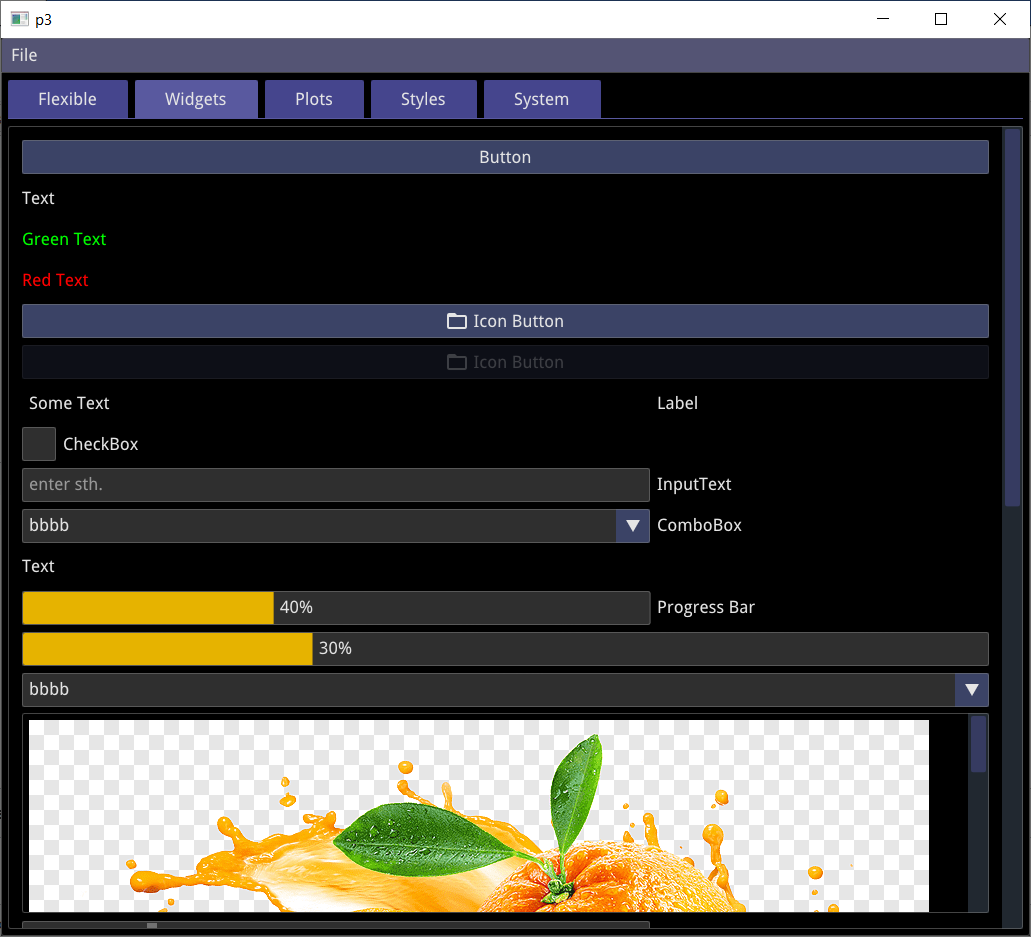
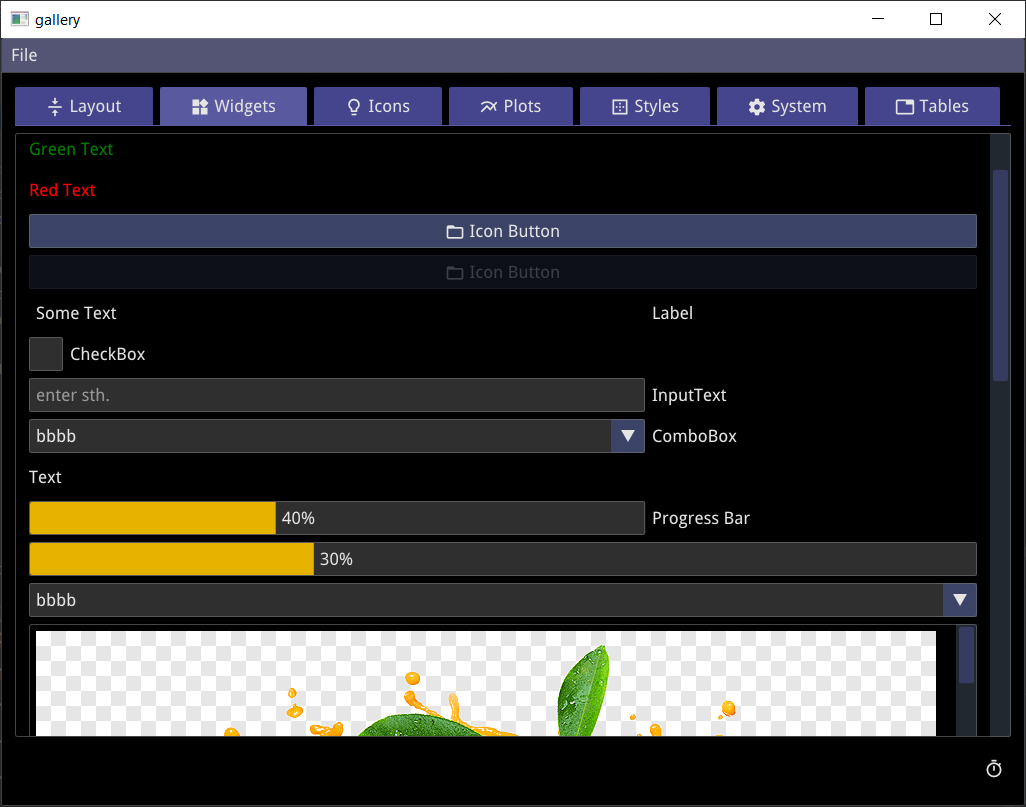
table column / row

diff --git a/cpp/p3/source/p3/Table.cpp b/cpp/p3/source/p3/Table.cpp
@@ -32,56 +32,73 @@ namespace p3
     Table::Table()
         : Node("Table")
     {
+        for (auto& column : _columns)
+            column->release();
     }
 
-    void Table::render_impl(Context&, float width, float height)
+    void Table::set_columns(std::vector<std::shared_ptr<Column>> columns)
     {
-        
+        for (auto& column : _columns)
+            column->release();
+        _columns = std::move(columns);
+        for (auto& column : _columns)
+            column->synchronize_with(*this);
+    }
+
+    std::vector<std::shared_ptr<Table::Column>> Table::columns() const
+    {
+        return _columns;
+    }
+
+    void Table::render_impl(Context& context, float width, float height)
+    {
+
         ImVec2 size(width, height);
         //
         // NOTE: todo: scrollbars.. borders.. 
-        ImGuiTableFlags flags=ImGuiTableFlags_RowBg 
-            | ImGuiTableFlags_BordersOuterH 
-            | ImGuiTableFlags_BordersOuterV 
+        ImGuiTableFlags flags = ImGuiTableFlags_RowBg
+            | ImGuiTableFlags_BordersOuterH
+            | ImGuiTableFlags_BordersOuterV
             | ImGuiTableFlags_BordersInnerV
-            | ImGuiTableFlags_ScrollX 
+            | ImGuiTableFlags_ScrollX
             | ImGuiTableFlags_ScrollY;
+
+        
         ImGui::BeginTable(imgui_label().c_str(), 3, flags, size);
-        ImGui::TableSetupColumn("One", ImGuiTableColumnFlags_WidthFixed, 200.f);
-        ImGui::TableSetupColumn("Two", ImGuiTableColumnFlags_WidthFixed, 200.f);
-        ImGui::TableSetupColumn("Three", ImGuiTableColumnFlags_WidthFixed, 200.f);
-        ImGui::TableHeadersRow();
-        ImGui::TableNextColumn();
-        ImGui::Text("Test1");
-        ImGui::TableNextColumn();
-        ImGui::Text("Test2");
-        ImGui::TableNextColumn();
-        ImGui::Text("Test3");
+        if (_columns.size())
+        {
+            std::size_t suffix=0;
+            for (auto& column : _columns)
+            {
+                auto infix = std::to_string(imgui_id());
+                auto label = column->title() + "##" + infix + "_" + std::to_string(suffix++);
+                ImGui::TableSetupColumn(label.c_str(), ImGuiTableColumnFlags_WidthFixed, 200.f);
+            }
+            ImGui::TableHeadersRow();
+        }
 
-        ImGui::TableNextRow();
-        ImGui::TableNextColumn();
-        ImGui::Text("Test1");
-        ImGui::TableNextColumn();
-        ImGui::Text("Test2");
-        ImGui::TableNextColumn();
-        ImGui::Text("Test3");
-
-        ImGui::TableNextRow();
-        ImGui::TableNextColumn();
-        ImGui::Text("Test1");
-        ImGui::TableNextColumn();
-        ImGui::Text("Test2");
-        ImGui::TableNextColumn();
-        ImGui::Text("Test3");
+        for (auto& child : children())
+            child->render(context, width, height);
 
         ImGui::EndTable();
     }
 
     void Table::update_content()
     {
-        
+
         auto const em = ImGui::GetCurrentContext()->FontSize;
-        _automatic_width = _automatic_height =  DefaultItemWidthEm * em;
+        _automatic_width = _automatic_height = DefaultItemWidthEm * em;
+    }
+
+    void Table::Row::render_impl(Context& context, float width, float height)
+    {
+        ImGui::TableNextRow();
+        for (auto& child : children())
+        {
+           ImGui::TableNextColumn();
+           // auto s = ImGui::GetContentRegionAvail() - pad;
+           child->render(context, 0, 0);
+        }
     }
 
 }

diff --git a/cpp/p3_python/source/p3/python/Table.cpp b/cpp/p3_python/source/p3/python/Table.cpp
@@ -28,11 +28,31 @@ namespace p3::python
 
     void Definition<Table>::apply(py::module& module)
     {
-        py::class_<Table, Node, std::shared_ptr<Table>> table(module, "Table");
+        auto table = py::class_<Table, Node, std::shared_ptr<Table>>(module, "Table");
         table.def(py::init<>([](py::kwargs kwargs) {
             auto table = std::make_shared<Table>();
             ArgumentParser<Node>()(kwargs, *table);
+            assign(kwargs, "columns", *table, &Table::set_columns);
             return table;
+        }));
+
+        py::class_<Table::Column, std::shared_ptr<Table::Column>> column(table, "Column");
+        column.def(py::init<>([](std::string title, py::kwargs kwargs) {
+            auto column = std::make_shared<Table::Column>();
+            column->set_title(std::move(title));
+            assign(kwargs, "width", *column, &Table::Column::set_width);
+            assign(kwargs, "weight", *column, &Table::Column::set_weight);
+            return column;
+        }), py::arg("title"));
+        def_property(column, "title", &Table::Column::title, &Table::Column::set_title);
+        def_property(column, "width", &Table::Column::width, &Table::Column::set_width);
+        def_property(column, "weight", &Table::Column::weight, &Table::Column::set_weight);
+
+        auto row = py::class_<Table::Row, Node, std::shared_ptr<Table::Row>>(table, "Row");
+        row.def(py::init<>([](py::kwargs kwargs) {
+            auto row = std::make_shared<Table::Row>();
+            ArgumentParser<Node>()(kwargs, *row);
+            return row;
         }));
     }
 

diff --git a/cpp/p3/source/p3/Table.h b/cpp/p3/source/p3/Table.h
@@ -34,10 +34,44 @@ namespace p3
     {
     public:
         Table();
+
+        // 
+        // column sepcification
+        class Column : public Synchronizable
+        {
+        public:
+            std::string const& title() const { return _title; }
+            void set_title(std::string title){ _title = std::move(title); }
+
+            std::optional<Length> const& width() const { return _width; }
+            void set_width(std::optional<Length> width) { _width = std::move(width); }
+
+            float weight() const { return _weight; }
+            void set_weight(float weight) { _weight = weight; }
+
+        private:
+            std::string _title;
+            std::optional<Length> _width;
+            float _weight = 1.0f;
+        };
+
+        void set_columns(std::vector<std::shared_ptr<Column>>);
+        std::vector<std::shared_ptr<Column>> columns() const;
+
+        //
+        // a row ..
+        class Row : public Node
+        {
+        public:
+            Row() : Node("Row") {}
+            void render_impl(Context&, float width, float height) override;
+        };
+
         void render_impl(Context&, float width, float height) override;
         void update_content() override;
 
     private:
+        std::vector<std::shared_ptr<Column>> _columns;
     };
 
 }

diff --git a/python/gallery/gallery.py b/python/gallery/gallery.py
@@ -11,7 +11,7 @@ from tab_layout import TabLayout
 from tab_styles import TabStyles
 from tab_system import TabSystem
 from tab_icons import TabIcons
-
+from tab_tables import TabTables
 
 class Gallery(UserInterface):
 
@@ -37,7 +37,8 @@ class Gallery(UserInterface):
                         TabItem(f'{MaterialIcons.LightbulbOutline} Icons', content=TabIcons()),
                         TabItem(f'{MaterialIcons.MultilineChart} Plots', content=tab_plots),
                         TabItem(f'{MaterialIcons.BorderOuter} Styles', content=TabStyles(self)),
-                        TabItem(f'{MaterialIcons.Settings} System', content=tab_system)
+                        TabItem(f'{MaterialIcons.Settings} System', content=tab_system),
+                        TabItem(f'{MaterialIcons.Tab} Tables', content=TabTables())
                     ]),
                 Layout(
                     height=(None, 0, 0),

diff --git a/python/gallery/tab_tables.py b/python/gallery/tab_tables.py
@@ -1,0 +1,18 @@
+from p3ui import *
+
+
+class TabTables(Table):
+
+    def __init__(self):
+        super().__init__(
+            columns=[
+                Table.Column('First Column', width=10 | em),
+                Table.Column('Second Column', width=10 | em),
+                Table.Column('Third Column', width=10 | em)
+            ],
+            children=[
+                Table.Row(children=[Text('a111', color='red'), Text('222'), Text('333')]),
+                Table.Row(children=[Text('b111'), Text('222', color='green'), Text('333')]),
+                Table.Row(children=[Text('c111'), Text('222'), Text('333')])
+            ]
+        )

diff --git a/cpp/p3/source/p3/Text.cpp b/cpp/p3/source/p3/Text.cpp
@@ -75,7 +75,7 @@ namespace p3
             // ImGui::SetCursorPosX(ImGui::GetCursorPosX() + ImGui::GetCurrentConvalue()->Style.FramePadding.x);
             ImGui::SetCursorPosY(ImGui::GetCursorPosY() + ImGui::GetCurrentContext()->Style.FramePadding.y);
             ImGui::Text(_value.c_str());
-            ImGui::SetCursorPosY(ImGui::GetCursorPosY() + ImGui::GetCurrentContext()->Style.FramePadding.y);
+            // ImGui::SetCursorPosY(ImGui::GetCursorPosY() + ImGui::GetCurrentContext()->Style.FramePadding.y);
             // ImGui::SetCursorPosX(ImGui::GetCursorPosX() + ImGui::GetCurrentContext()->Style.FramePadding.x);
         }
     }

diff --git a/python/gallery/main.py b/python/gallery/main.py
@@ -1,16 +1,13 @@
 import asyncio
 from p3ui import *
-import threading
 from gallery import Gallery
 
 
 async def main():
     window = Window(title='gallery')
-    # window.vsync = False
     window.position = Window.Position(50, 50)
     window.size = Window.Size(1024, 768)
     await window.serve(Gallery(window))
 
 
 asyncio.run(main())
-exit(0)

diff --git a/README.md b/README.md
@@ -6,9 +6,5 @@ This project aims at fast prototyping and development of performant applications
 
 Sourcecode for the example is [provided here](python/gallery)
 
-![flexible](doc/flexible.png)
 ![widgets](doc/widgets.png)
-![plots](doc/plots.png)
-![styles](doc/styling.png)
-![system](doc/system.png)
 
